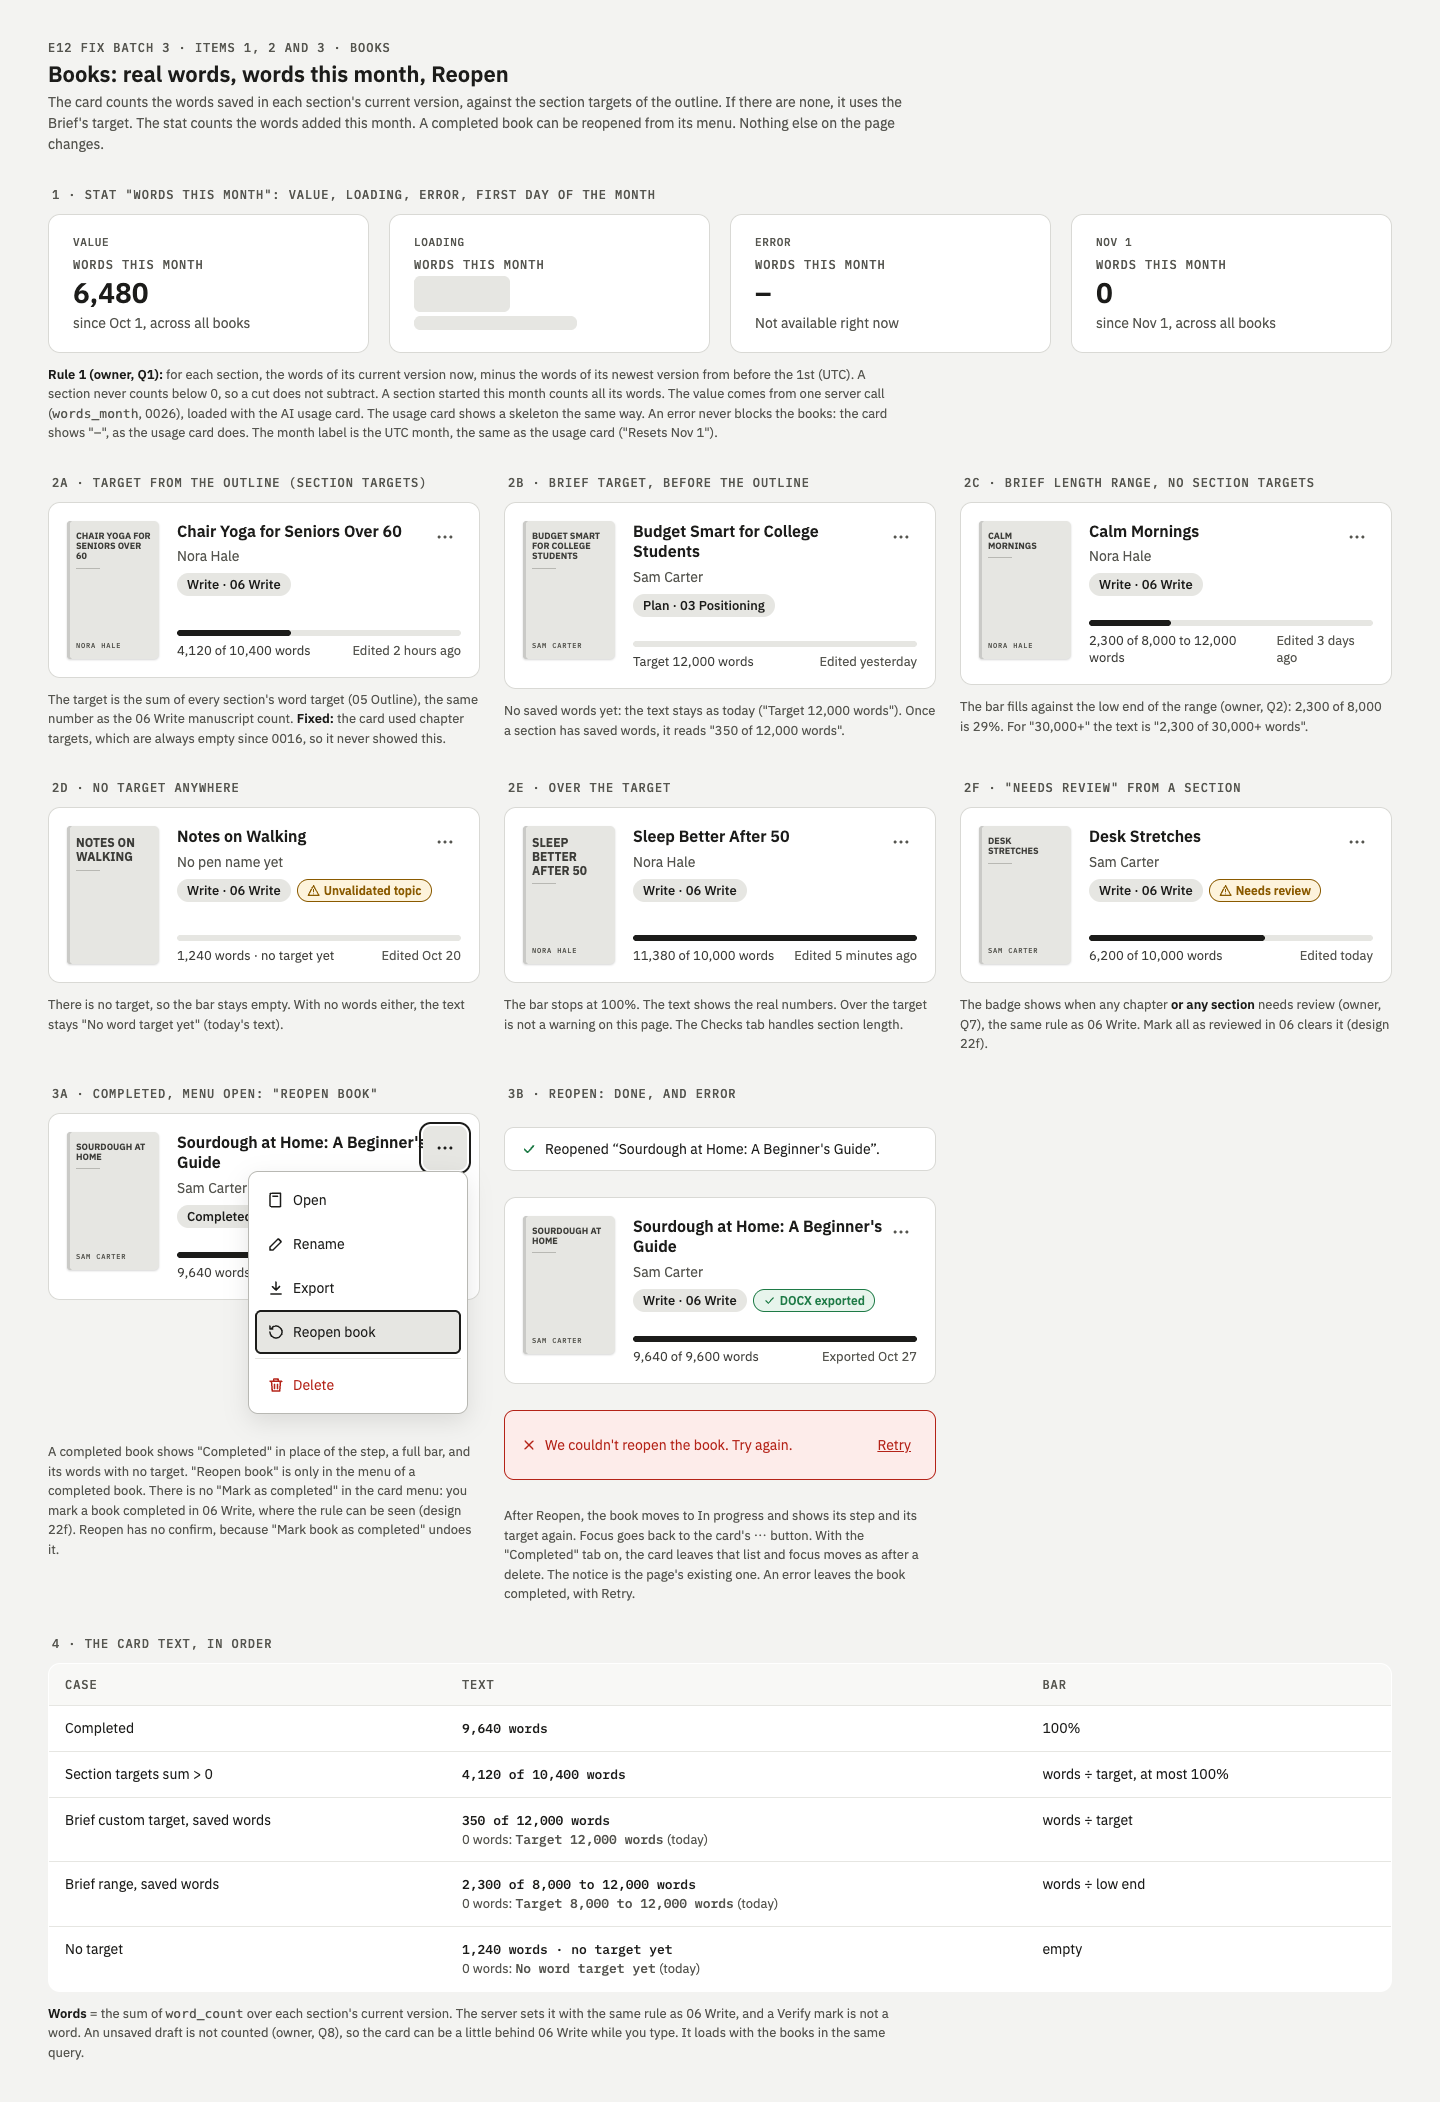
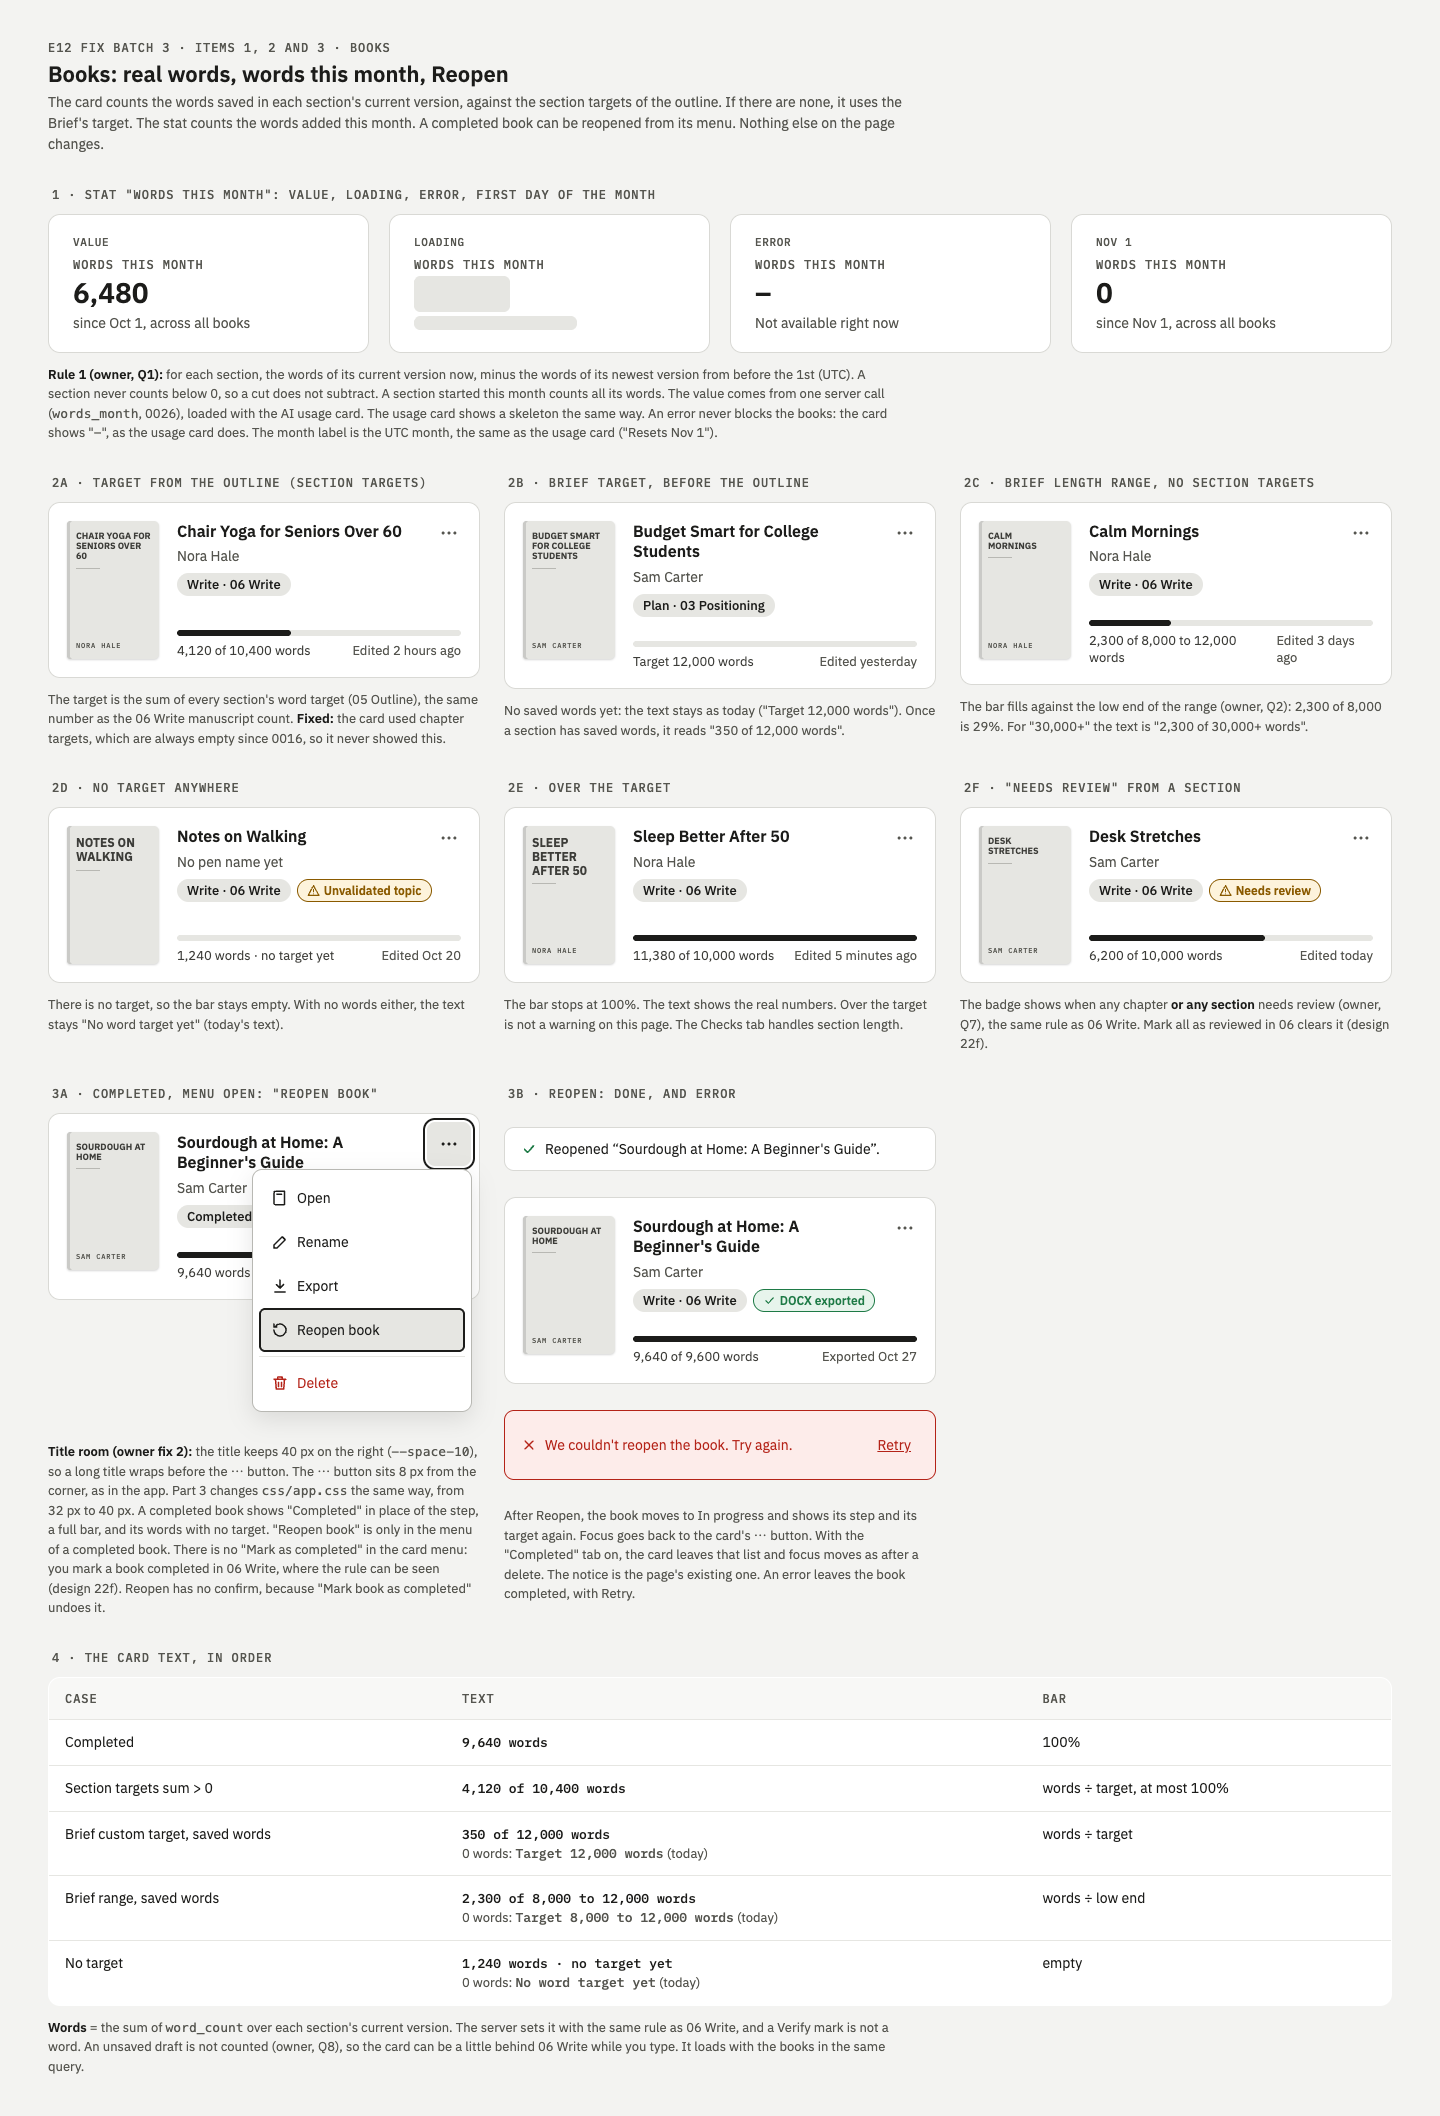
design: E12 fix batch 3 review fixes (R1 chapter marks line and state 6b, R2 card title room, R3 completed_at in the plan)

diff --git a/design/screens/22f-review-complete-states.html b/design/screens/22f-review-complete-states.html
@@ -211,6 +211,7 @@
       <div class="ms-review">
         <div class="line"><svg width="16" height="16"><use href="#warn"/></svg><span><strong>7 sections need review</strong></span></div>
         <button class="btn btn-sm btn-full"><svg width="16" height="16"><use href="#checks"/></svg>Mark all as reviewed</button>
+        <p class="why"><svg width="16" height="16"><use href="#info"/></svg><span>Approve the outline in 05 to clear the chapter marks.</span></p>
       </div>
       <ul class="ms-list">
         <li><button class="ms-sec"><span class="ms-name">Introduction</span><span class="ms-pills"><span class="wr-pill is-final">Final</span></span></button></li>
@@ -225,7 +226,7 @@
         <li><button class="ms-sec"><span class="ms-name">Conclusion</span><span class="ms-pills"><span class="wr-pill is-none">Not started</span></span></button></li>
       </ul>
     </div>
-    <p class="caption"><strong>Book:</strong> the box under the bar shows only when 1 or more sections need review. It counts sections, not chapters. <strong>Chapter:</strong> the button is the first row of an open chapter that has a section to review. The number is how many. The Introduction and the Conclusion have one section, so they keep the section's own button.</p>
+    <p class="caption"><strong>Book:</strong> the box under the bar shows when 1 or more sections need review, or when a chapter does. The count and the button are for sections only. <strong>Chapter marks (owner fix 1):</strong> when any chapter still needs review, the box adds the gray line "Approve the outline in 05 to clear the chapter marks." It has no button: only approving the outline clears chapters (0017), the same as the Export note. <strong>Chapter:</strong> the button is the first row of an open chapter that has a section to review. The number is how many. The Introduction and the Conclusion have one section, so they keep the section's own button.</p>
   </section>
 
   <section class="state wide" aria-label="Confirm, whole book">
@@ -293,7 +294,25 @@
           </ul></li>
       </ul>
     </div>
-    <p class="caption">The box and the chapter button go away, and so do the marks. The count is the number the server saved. Another tab may have marked some already, so it can be lower than the dialog said. The note goes after 8 seconds. Focus goes to the manuscript's first section. Screen readers hear the note (polite). The Books card badge and the Export note "Needs review" clear as well.</p>
+    <p class="caption">The box and the chapter button go away, and so do the marks. The count is the number the server saved. Another tab may have marked some already, so it can be lower than the dialog said. The note goes after 8 seconds. Focus goes to the manuscript's first section. Screen readers hear the note (polite). <strong>No chapter needs review here</strong>, so the Books card badge and the Export note "Needs review" clear as well. If a chapter still needs review, see 6b.</p>
+  </section>
+
+  <section class="state" aria-label="Done, chapter marks left">
+    <span class="label">6b · Done, chapter marks left</span>
+    <div class="ms">
+      <div class="ms-head"><span class="label">Manuscript</span><span class="ms-count"><strong>6,200</strong> / 10,000</span></div>
+      <span class="ms-bar"><span style="width: 62%"></span></span>
+      <div class="alert alert-ok" role="status" style="margin: 0 var(--space-2) var(--space-3);"><svg width="16" height="16"><use href="#check"/></svg><p>Marked 7 sections as reviewed.</p></div>
+      <div class="ms-review">
+        <div class="line"><svg width="16" height="16"><use href="#warn"/></svg><span><strong>2 chapters need review</strong></span></div>
+        <p class="why"><svg width="16" height="16"><use href="#info"/></svg><span>Approve the outline in 05 to clear the chapter marks.</span></p>
+      </div>
+      <ul class="ms-list">
+        <li><button class="ms-sec"><span class="ms-name">Introduction</span><span class="ms-pills"><span class="wr-pill is-final">Final</span></span></button></li>
+        <li><button class="ms-ch" aria-expanded="false"><span class="ms-name">1 · Why your desk hurts</span><span class="ms-pills"><span class="wr-pill">Draft</span><svg width="16" height="16"><use href="#chevr"/></svg></span></button></li>
+      </ul>
+    </div>
+    <p class="caption">The sections are clear, but chapters 1 and 2 still carry a mark from the unlock of 03. They are not shown on the chapter rows, which follow their sections as today. The box stays with only the chapter line and no button. The Books card keeps "Needs review", the Export note lists the 2 chapters, and "Mark book as completed" stays off with "Approve the outline in 05" (state 9). Approving the outline clears it all.</p>
   </section>
 
   <section class="state" aria-label="Off">
@@ -347,7 +366,7 @@
         </ul>
       </div>
     </div>
-    <p class="caption">Only the lines that apply, in this order. This is a list of steps, not a warning, so it is gray. A section that has no text and is not Final counts in both lines. The 06 manuscript already shows each section's status and marks, so the lines need no links.</p>
+    <p class="caption">Only the lines that apply, in this order. Chapter marks come with an outline that is not approved (an unlock of 03 clears both), so "Approve the outline in 05" covers them. This is a list of steps, not a warning, so it is gray. A section that has no text and is not Final counts in both lines. The 06 manuscript already shows each section's status and marks, so the lines need no links.</p>
   </section>
 
   <section class="state" aria-label="Saving and error">
@@ -376,7 +395,7 @@
         <button class="btn btn-full is-focus"><svg width="18" height="18"><use href="#reopen"/></svg>Reopen book</button>
       </div>
     </div>
-    <p class="caption">The button turns into this line, and focus moves to "Reopen book". Screen readers hear "The book is marked completed." The Books card shows "Completed" (design 01b, 3a). "Reopen book" saving and error work like states 10 and 11.</p>
+    <p class="caption">"Marked Oct 28" is <code>books.completed_at</code> (0026, owner fix 3): <code>complete_book</code> sets it, and Reopen or a reopen on its own sets it back to empty. The button turns into this line, and focus moves to "Reopen book". Screen readers hear "The book is marked completed." The Books card shows "Completed" (design 01b, 3a). "Reopen book" saving and error work like states 10 and 11.</p>
   </section>
 
   <section class="state wide" aria-label="Book shell strip">

diff --git a/design/screens/01b-books-words-states.html b/design/screens/01b-books-words-states.html
@@ -55,7 +55,7 @@
   .cover-ph-rule { height: 1px; background: var(--stone-2); margin: 6px 0 auto; width: 24px; }
   .cover-ph-pen { font-family: var(--font-label); font-size: 7px; letter-spacing: 0.12em; text-transform: uppercase; color: var(--graphite); white-space: nowrap; overflow: hidden; }
   .book-body { flex-grow: 1; display: flex; flex-direction: column; gap: 6px; min-width: 0; }
-  .book-title { margin: 0; font-size: var(--text-lg); font-weight: 600; line-height: 1.3; padding-right: var(--space-8); }
+  .book-title { margin: 0; font-size: var(--text-lg); font-weight: 600; line-height: 1.3; padding-right: var(--space-10); }
   .book-pen { font-size: var(--text-md); color: var(--graphite); }
   .book-tags { display: flex; gap: 6px; flex-wrap: wrap; margin-top: 2px; }
   .grow { flex-grow: 1; min-height: var(--space-3); }
@@ -67,13 +67,13 @@
   .badge-success { color: var(--success); background: var(--success-bg); }
   .bar { height: 6px; border-radius: 3px; background: var(--mist); overflow: hidden; }
   .bar span { display: block; height: 6px; border-radius: 3px; background: var(--ink); }
-  .icon-btn { position: absolute; top: 12px; right: 12px; width: 44px; height: 44px; border: none; background: transparent; border-radius: var(--radius-md); color: var(--graphite);
+  .icon-btn { position: absolute; top: var(--space-2); right: var(--space-2); width: 44px; height: 44px; border: none; background: transparent; border-radius: var(--radius-md); color: var(--graphite);
               display: flex; align-items: center; justify-content: center; }
   .icon-btn[aria-expanded="true"] { background: var(--mist); color: var(--ink); }
 
   /* Card menu (design 07) */
   .menu-wrap { position: relative; }
-  .menu { position: absolute; top: 58px; right: 12px; z-index: 2; width: 220px; background: var(--surface); border: 1px solid var(--stone-2); border-radius: var(--radius-lg);
+  .menu { position: absolute; top: 56px; right: var(--space-2); z-index: 2; width: 220px; background: var(--surface); border: 1px solid var(--stone-2); border-radius: var(--radius-lg);
           padding: 6px; box-shadow: var(--shadow-menu); display: flex; flex-direction: column; }
   .menu-item { min-height: var(--control-h); border: none; background: transparent; text-align: left; padding: 0 var(--space-3); border-radius: var(--radius-sm);
                font-family: inherit; font-size: var(--text-md); color: var(--ink); display: flex; align-items: center; gap: var(--space-2); }
@@ -260,7 +260,7 @@
       </div>
       <div class="menu-room"></div>
     </div>
-    <p class="caption">A completed book shows "Completed" in place of the step, a full bar, and its words with no target. "Reopen book" is only in the menu of a completed book. There is no "Mark as completed" in the card menu: you mark a book completed in 06 Write, where the rule can be seen (design 22f). Reopen has no confirm, because "Mark book as completed" undoes it.</p>
+    <p class="caption"><strong>Title room (owner fix 2):</strong> the title keeps 40 px on the right (<code>--space-10</code>), so a long title wraps before the ⋯ button. The ⋯ button sits 8 px from the corner, as in the app. Part 3 changes <code>css/app.css</code> the same way, from 32 px to 40 px. A completed book shows "Completed" in place of the step, a full bar, and its words with no target. "Reopen book" is only in the menu of a completed book. There is no "Mark as completed" in the card menu: you mark a book completed in 06 Write, where the rule can be seen (design 22f). Reopen has no confirm, because "Mark book as completed" undoes it.</p>
   </section>
 
   <section class="state" aria-label="Reopen results">

diff --git a/docs/reviews/2026-10-28-e12-fix-batch-3-plan.md b/docs/reviews/2026-10-28-e12-fix-batch-3-plan.md
@@ -1,6 +1,11 @@
 # E12 step 4: fix batch 3 (from finishing the real book)
 
-Status: STOP 2 (2026-10-28). Part 1 designs are done: `design/screens/01b-books-words-states.html` (DG1, plus the card's Reopen menu from DG2) and `design/screens/22f-review-complete-states.html` (DG2 to DG4), with PNGs at 1440 and 900. Waiting for the owner's design review. No app code yet.
+Status: STOP 2 design review done (2026-10-28): approved with 3 fixes (below). Part 2 (migration 0026 + SQL tests) is next, then STOP 3.
+
+**Design review fixes (owner, 2026-10-28):**
+- **R1, chapter marks.** Mark all as reviewed clears sections only, and only `approve_outline` clears `chapters.needs_review`. So the head box adds the gray line "Approve the outline in 05 to clear the chapter marks." (no button) whenever a chapter still needs review. New state 22f 6b. The state 6 note now says the card badge and the Export note clear only when no chapter needs review.
+- **R2, title room.** On the card (01b 3a) a long title ran under the ⋯ button. The real app has the same rule: the button covers 8 to 52 px from the right edge, and the title stops at 50 px (`css/app.css:894`, `--space-8`). The design now uses `--space-10` (40 px), and Part 3 changes `css/app.css:894` the same way.
+- **R3, `books.completed_at`** (0026). `complete_book` sets it. Reopen and a reopen on its own set it to null. 22f state 12 shows it ("Marked Oct 28"). SQL tests check all three. Reopen is a plain `status = 'in_progress'` update, so the guard trigger sets `completed_at` to null for any move away from completed. A browser cannot set `completed_at` to a value itself.
 
 Changes from the plan in Part 1:
 - The card menu's "Reopen book" is in 01b, not 22f, because it is the Books page.
@@ -94,6 +99,7 @@ Generate stays v24 unless Q6 = yes. Then a v25 Part is added before Part 3, with
   - Book shell (`js/book.js`): a gray info strip on every step: "This book is marked completed." plus a "Reopen book" button.
   - 06 Write manuscript panel: a "Mark book as completed" button under the word count. When the rule fails, the button is disabled and a line says why: "6 sections are not Final yet · 2 need review". No confirm dialog, because Reopen undoes it.
   - Other options: **A, read-only** (Write, Generate, Improve and steps 01 to 05 locked until Reopen). That needs a generate change (v25) and server guards on save_version, so it is much bigger. **C, label only** (no auto-reopen). That needs no trigger, but a completed book can drift.
+- **`books.completed_at` (R3):** set by `complete_book`, null after Reopen or a reopen on its own; the browser never writes it.
 - **Files:** `js/book-write.js` (button + rule state), `js/book.js` (strip), `js/book-actions.js` (menu item), `js/supabase.js` (`completeBook`, `reopenBook`), `app/dashboard.html` (menu callback), `supabase/migrations/0026_…sql`.
 - **Migration:** yes (recommended). **Generate:** no (B or C).
 
